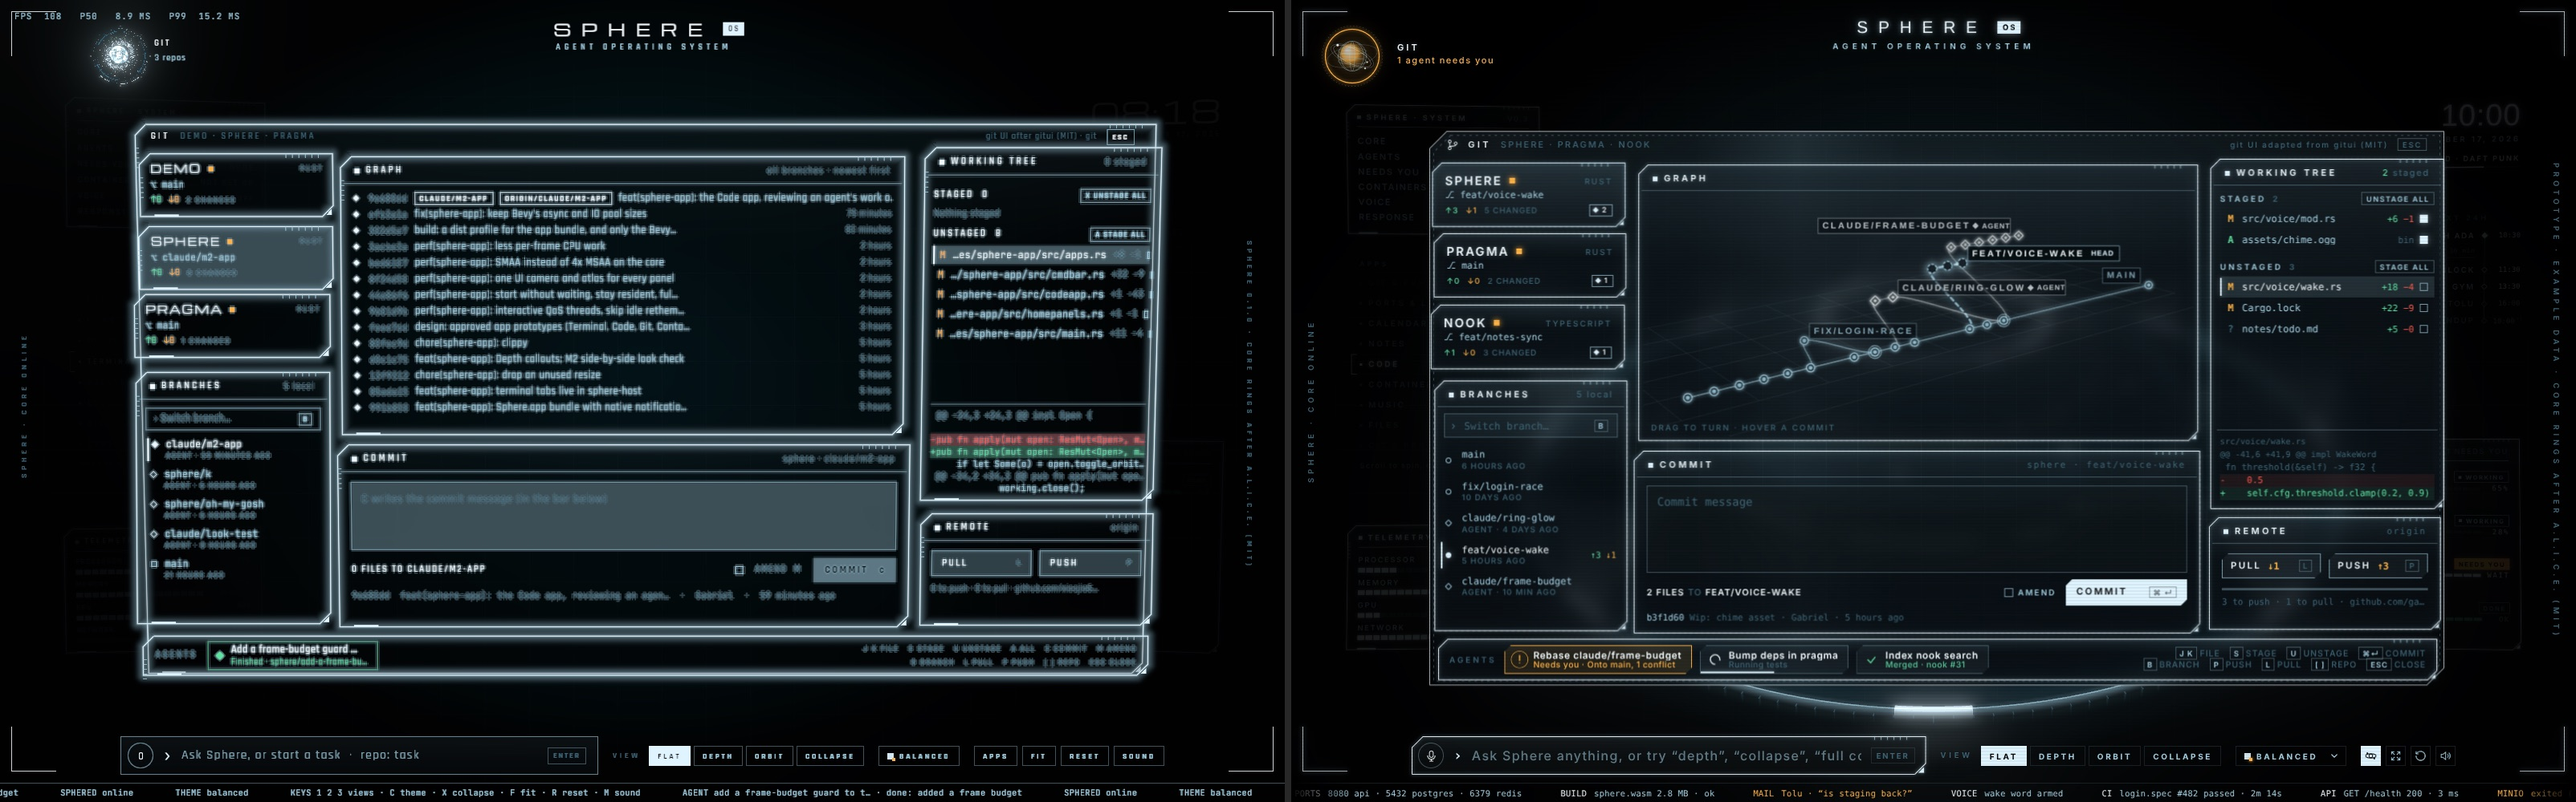
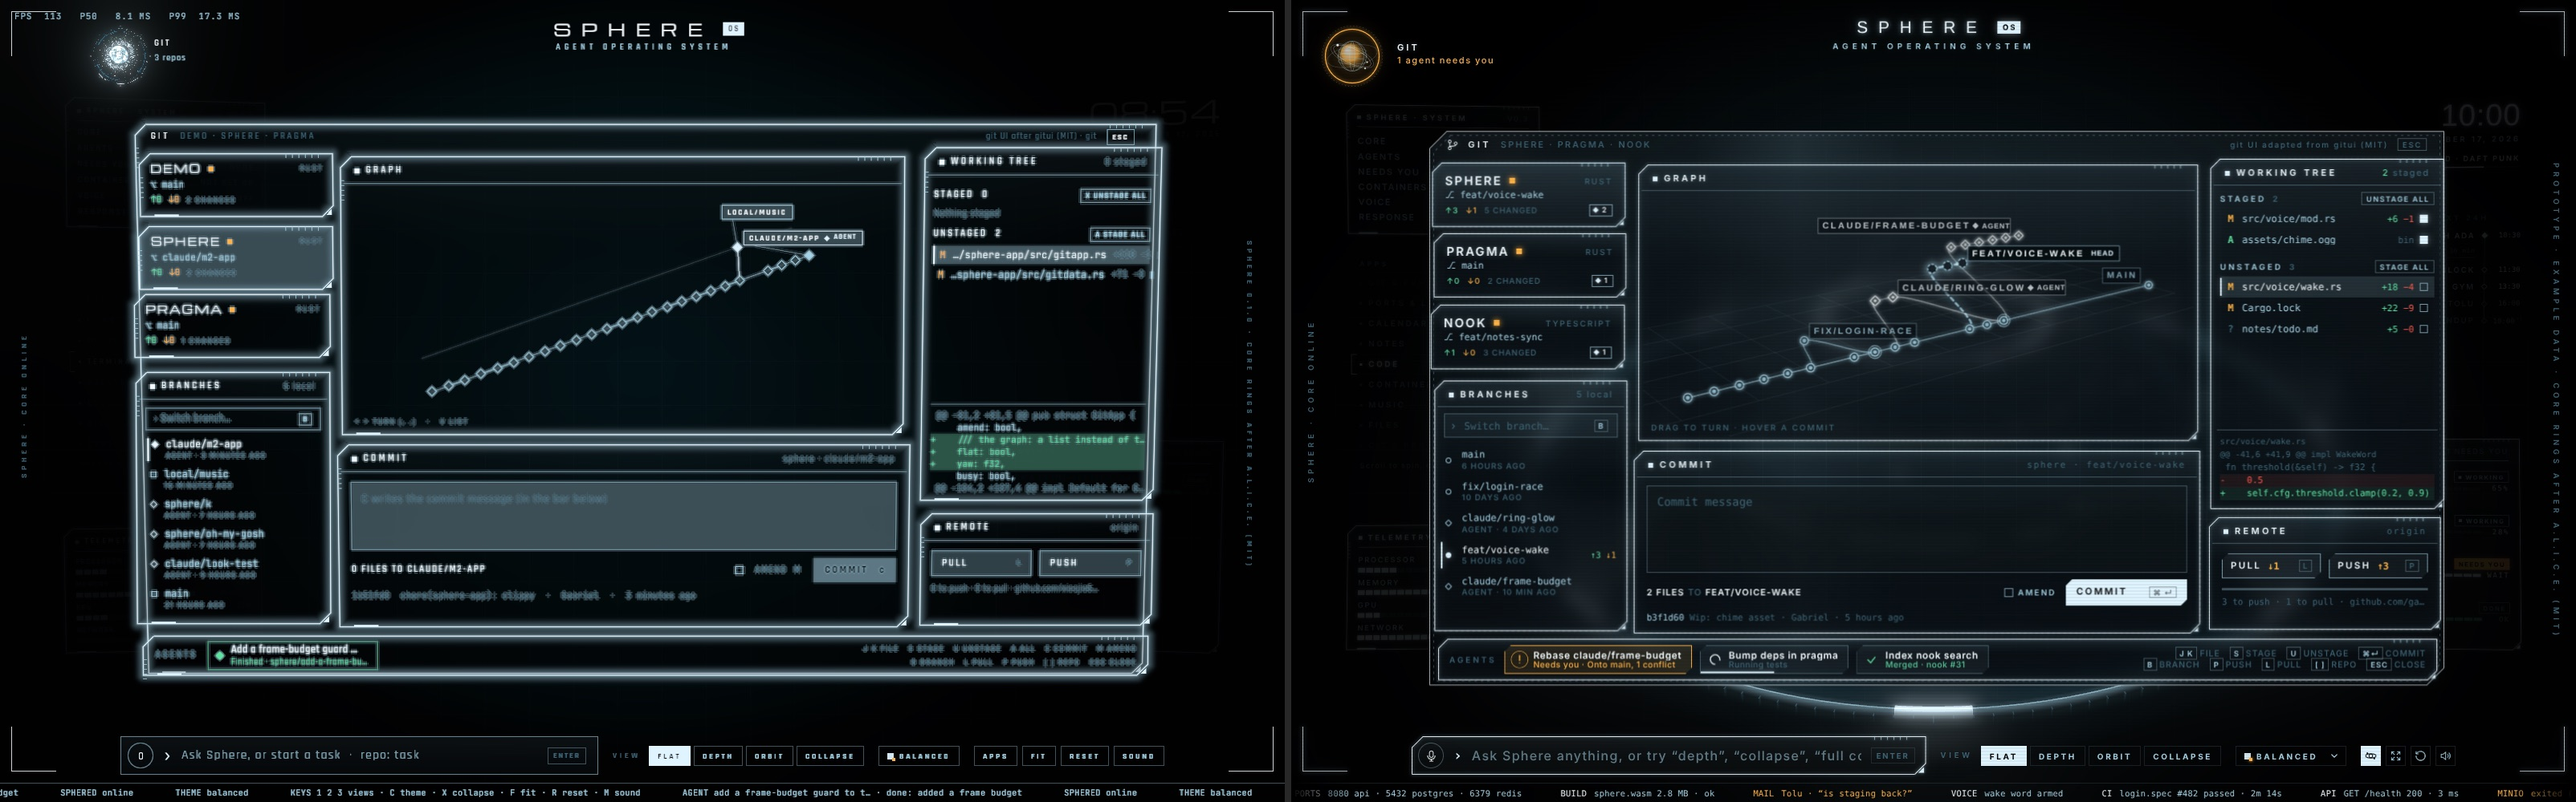
feat(sphere-app): Git's tilted commit graph
The graph pane now draws the prototype's view: commits laid out in lanes on a
plane seen from above at an angle, newest to the right, edges to parents,
filled diamonds on branch heads with their labels (agents' branches marked).
, and . turn it; V switches to the git-log list.

Claude-Session: https://claude.ai/code/session_013W6M3qyA81xjFbtoA3NYyj

diff --git a/crates/sphere-app/src/gitapp.rs b/crates/sphere-app/src/gitapp.rs
@@ -79,6 +79,9 @@ pub struct GitApp {
     preview_rx: Option<Mutex<mpsc::Receiver<Preview>>>,
     preview_for: String,
     amend: bool,
+    /// the graph: a list instead of the tilted view, and how far the view is turned (degrees)
+    flat: bool,
+    yaw: f32,
     busy: bool,
     notes: (mpsc::Sender<Note>, Mutex<mpsc::Receiver<Note>>),
     version: u64,
@@ -102,6 +105,8 @@ impl Default for GitApp {
             preview_rx: None,
             preview_for: String::new(),
             amend: false,
+            flat: false,
+            yaw: 22.0,
             busy: false,
             notes: (tx, Mutex::new(rx)),
             version: 0,
@@ -298,6 +303,16 @@ pub fn keys(
                     sound.play("open");
                 }
             }
+            KeyCode::KeyV => {
+                app.flat = !app.flat;
+                app.version += 1;
+                sound.play("toggle");
+            }
+            k @ (KeyCode::Comma | KeyCode::Period) => {
+                app.yaw = (app.yaw + if k == KeyCode::Comma { -10.0 } else { 10.0 }).clamp(-60.0, 40.0);
+                app.version += 1;
+                sound.play_q("tick", 40);
+            }
             KeyCode::KeyL => {
                 app.act(Op::Pull);
                 sound.play("progress");
@@ -493,7 +508,11 @@ pub fn draw(mut commands: Commands, app: Res<GitApp>, svc: Res<Service>, roots: 
         return;
     }
     draw_branches(c, &ui, root(Pane::Branches), r);
-    draw_graph(c, &ui, root(Pane::Graph), r);
+    if app.flat {
+        draw_graph(c, &ui, root(Pane::Graph), r);
+    } else {
+        draw_graph3d(c, &ui, root(Pane::Graph), r, app.yaw);
+    }
     draw_commit(c, &ui, root(Pane::Commit), r, app.amend, app.busy);
     draw_status(c, &ui, root(Pane::Status), r, app.cursor, &app.preview, &app.preview_for);
     draw_remote(c, &ui, root(Pane::Remote), r);
@@ -607,6 +626,96 @@ fn draw_graph(c: &mut Commands, ui: &Ui, root: Entity, r: &Repo) {
         }
         c.entity(list).add_child(row);
     }
+}
+
+/// The commit graph as the prototype draws it: a plane of lanes seen from above at an angle, newest commits to
+/// the right, diamonds for commits, branch labels on their heads (agents' marked).
+fn draw_graph3d(c: &mut Commands, ui: &Ui, root: Entity, r: &Repo, yaw_deg: f32) {
+    let b = ui.body(c, root);
+    let h = ui.header(c, "Graph", "", ui.dim);
+    let area = c.spawn(Node { width: percent(100), flex_grow: 1.0, ..default() }).id();
+    c.entity(b).add_children(&[h, area]);
+    let nodes = &r.dag;
+    if nodes.is_empty() {
+        let t = ui.text(c, "No commits yet", &ui.f.ui500, 13.0, 0.4, ui.dim);
+        c.entity(area).add_child(t);
+        return;
+    }
+    let rows = nodes.len() as f32;
+    let lanes = nodes.iter().map(|n| n.lane).max().unwrap_or(0) as f32 + 1.0;
+    let (sx, sz) = (520.0 / rows.max(8.0), 46.0);
+    let (yaw, pitch) = (yaw_deg.to_radians(), 62f32.to_radians());
+    let (cx, cy, k, f) = (350.0, 150.0, 1.0, 900.0);
+    // newest to the right, lanes going back into the plane
+    let project = |row: f32, lane: f32| -> Vec2 {
+        let x = (rows - 1.0 - row) * sx - (rows - 1.0) * sx / 2.0;
+        let z = lane * sz - (lanes - 1.0) * sz / 2.0;
+        let (x1, z1) = (x * yaw.cos() - z * yaw.sin(), x * yaw.sin() + z * yaw.cos());
+        let (y2, z2) = (z1 * pitch.sin(), z1 * pitch.cos());
+        let p = f / (f + z2);
+        Vec2::new(cx + x1 * k * p, cy - y2 * k * p)
+    };
+    // the plane: a faint line along each lane
+    for l in 0..lanes as usize {
+        ui.line(c, area, project(0.0, l as f32), project(rows - 1.0, l as f32), 1.0, with_alpha(ui.line, 0.07));
+    }
+    let lane_col = [ui.line, role_color(Role::Fill), role_color(Role::Acc), role_color(Role::Ok), role_color(Role::Hot)];
+    let pos: std::collections::HashMap<&str, (Vec2, usize)> = nodes.iter().map(|n| (n.hash.as_str(), (project(n.row as f32, n.lane as f32), n.lane))).collect();
+    // edges, child to each parent on screen
+    for n in nodes {
+        let a = pos[n.hash.as_str()].0;
+        for p in &n.parents {
+            if let Some((bpos, bl)) = pos.get(p.as_str()) {
+                let col = lane_col[n.lane.max(*bl) % lane_col.len()];
+                ui.line(c, area, a, *bpos, 1.5, with_alpha(col, 0.55));
+            }
+        }
+    }
+    // commits
+    for n in nodes {
+        let p = pos[n.hash.as_str()].0;
+        // branch heads are filled
+        let head = !n.refs.is_empty();
+        let col = lane_col[n.lane % lane_col.len()];
+        let d = c
+            .spawn((
+                Node { position_type: PositionType::Absolute, left: px(p.x - 4.5), top: px(p.y - 4.5), width: px(9), height: px(9), border: UiRect::all(px(1.5)), ..default() },
+                BorderColor::all(col),
+                BackgroundColor(if head { col } else { Color::srgba(0.0, 0.0, 0.0, 0.8) }),
+                UiTransform { rotation: Rot2::degrees(45.0), ..default() },
+            ))
+            .id();
+        c.entity(area).add_child(d);
+    }
+    // labels on branch heads, up and out of the way
+    let mut placed: Vec<Vec2> = Vec::new();
+    for n in nodes.iter().filter(|n| !n.refs.is_empty()).take(7) {
+        let p = pos[n.hash.as_str()].0;
+        let local: Vec<&String> = n.refs.iter().filter(|r| !r.starts_with("origin/")).collect();
+        let name = local.first().copied().or(n.refs.first()).map(|s| s.as_str()).unwrap_or("");
+        let agent = name.starts_with("sphere/") || name.starts_with("claude/");
+        let mut at = p + Vec2::new(-20.0, -30.0);
+        at.x = at.x.clamp(8.0, 700.0 - 200.0);
+        at.y = at.y.max(6.0);
+        while placed.iter().any(|q| (q.y - at.y).abs() < 20.0 && (q.x - at.x).abs() < 170.0) {
+            at.y -= 22.0;
+        }
+        placed.push(at);
+        ui.line(c, area, p, at + Vec2::new(14.0, 18.0), 1.0, with_alpha(ui.line, 0.35));
+        let chip = c.spawn((Node { position_type: PositionType::Absolute, left: px(at.x), top: px(at.y), padding: UiRect { left: px(6), right: px(6), top: px(2), bottom: px(1) }, border: UiRect::all(px(1)), column_gap: px(6), ..default() }, BorderColor::all(with_alpha(if agent { role_color(Role::Fill) } else { ui.line }, 0.7)), BackgroundColor(Color::srgba(0.0, 0.0, 0.0, 0.75)))).id();
+        let t = ui.text(c, clip(&name.to_uppercase(), 26), &ui.f.ui700, 10.0, 1.6, ui.hot);
+        c.entity(chip).add_child(t);
+        if agent {
+            let d = c.spawn((Node { width: px(5), height: px(5), align_self: AlignSelf::Center, ..default() }, BackgroundColor(role_color(Role::Fill)), UiTransform { rotation: Rot2::degrees(45.0), ..default() })).id();
+            let a = ui.text(c, "AGENT", &ui.f.ui700, 8.5, 1.2, role_color(Role::Fill));
+            c.entity(chip).add_children(&[d, a]);
+        }
+        c.entity(area).add_child(chip);
+    }
+    let foot = c.spawn((Node { position_type: PositionType::Absolute, left: px(16), bottom: px(10), ..default() }, Click::Key(KeyCode::KeyV))).id();
+    let ft = ui.text(c, "< > TURN (, .)   ·   V LIST", &ui.f.ui600, 9.5, 2.0, ui.dim);
+    c.entity(foot).add_child(ft);
+    c.entity(area).add_child(foot);
 }
 
 fn draw_commit(c: &mut Commands, ui: &Ui, root: Entity, r: &Repo, amend: bool, busy: bool) {

diff --git a/crates/sphere-app/src/gitdata.rs b/crates/sphere-app/src/gitdata.rs
@@ -46,6 +46,65 @@ pub struct GraphRow {
     pub age: String,
 }
 
+/// A commit in the graph, placed: its lane (0 = the first branch's line) and row (0 = newest).
+#[derive(Clone, Debug, Default, PartialEq)]
+pub struct Node {
+    pub hash: String,
+    pub parents: Vec<String>,
+    pub refs: Vec<String>,
+    pub subject: String,
+    pub lane: usize,
+    pub row: usize,
+}
+
+/// Lays commits (newest first, each with its parents) out in lanes: a commit takes the lane that was waiting
+/// for it (or a new one), hands that lane to its first parent and opens lanes for the others.
+pub fn lay_out(commits: Vec<(String, Vec<String>, Vec<String>, String)>) -> Vec<Node> {
+    let mut lanes: Vec<Option<String>> = Vec::new();
+    let mut out = Vec::with_capacity(commits.len());
+    for (row, (hash, parents, refs, subject)) in commits.into_iter().enumerate() {
+        let lane = match lanes.iter().position(|l| l.as_deref() == Some(hash.as_str())) {
+            Some(i) => i,
+            None => match lanes.iter().position(|l| l.is_none()) {
+                Some(i) => i,
+                None => {
+                    lanes.push(None);
+                    lanes.len() - 1
+                }
+            },
+        };
+        // any other lane waiting for this commit merges here
+        for l in lanes.iter_mut() {
+            if l.as_deref() == Some(hash.as_str()) {
+                *l = None;
+            }
+        }
+        lanes[lane] = parents.first().cloned();
+        for p in parents.iter().skip(1) {
+            if !lanes.iter().any(|l| l.as_deref() == Some(p.as_str())) {
+                match lanes.iter().position(|l| l.is_none()) {
+                    Some(i) => lanes[i] = Some(p.clone()),
+                    None => lanes.push(Some(p.clone())),
+                }
+            }
+        }
+        out.push(Node { hash, parents, refs, subject, lane, row });
+    }
+    out
+}
+
+pub fn dag(dir: &Path, n: usize) -> Vec<Node> {
+    let raw = git(dir, &["log", "--all", "--date-order", "-n", &n.to_string(), "--format=%h%x02%p%x02%D%x02%s"]).unwrap_or_default();
+    let commits = raw
+        .lines()
+        .filter_map(|l| {
+            let f: Vec<&str> = l.split('\u{2}').collect();
+            (f.len() >= 4).then(|| (f[0].to_string(), f[1].split_whitespace().map(|s| s.to_string()).collect(), f[2].split(", ").filter(|s| !s.is_empty() && *s != "HEAD").map(|s| s.trim_start_matches("HEAD -> ").to_string()).collect(), f[3].to_string()))
+        })
+        .collect();
+    lay_out(commits)
+}
+
 #[derive(Clone, Debug, PartialEq)]
 pub struct Change {
     pub path: String,
@@ -60,6 +119,7 @@ pub struct Repo {
     pub card: RepoCard,
     pub branches: Vec<Branch>,
     pub graph: Vec<GraphRow>,
+    pub dag: Vec<Node>,
     pub staged: Vec<Change>,
     pub unstaged: Vec<Change>,
     pub upstream: Option<String>,
@@ -156,6 +216,7 @@ pub fn load(dir: &Path) -> Repo {
             Some(Branch { current: name == cur, agent: name.starts_with("sphere/") || name.starts_with("claude/"), ahead: num("ahead "), behind: num("behind "), name, age })
         })
         .collect();
+    r.dag = dag(dir, 26);
     r.graph = parse_graph(&git(dir, &["log", "--graph", "--all", "--date-order", "-n", "40", "--format=%x01%h%x02%D%x02%s%x02%ar"]).unwrap_or_default());
     let (staged, unstaged) = parse_status(&git(dir, &["status", "--porcelain=v1", "-z"]).unwrap_or_default());
     r.staged = with_counts(staged, &git(dir, &["diff", "--cached", "--numstat", "-z"]).unwrap_or_default());
@@ -290,6 +351,16 @@ mod tests {
         assert_eq!(g[0].refs, vec!["main", "origin/main"]);
         assert_eq!(g[1].lanes, "|\\");
         assert!(g[1].hash.is_empty());
+    }
+
+    #[test]
+    fn lays_branches_out_in_lanes() {
+        let c = |h: &str, p: &[&str]| (h.to_string(), p.iter().map(|s| s.to_string()).collect(), Vec::new(), String::new());
+        // m merges a (on main) and f (a feature off b): f gets its own lane, and both meet at b
+        let n = lay_out(vec![c("m", &["a", "f"]), c("f", &["b"]), c("a", &["b"]), c("b", &[])]);
+        let lane = |h: &str| n.iter().find(|x| x.hash == h).unwrap().lane;
+        assert_eq!((lane("m"), lane("a"), lane("b")), (0, 0, 0));
+        assert_eq!(lane("f"), 1);
     }
 
     #[test]
